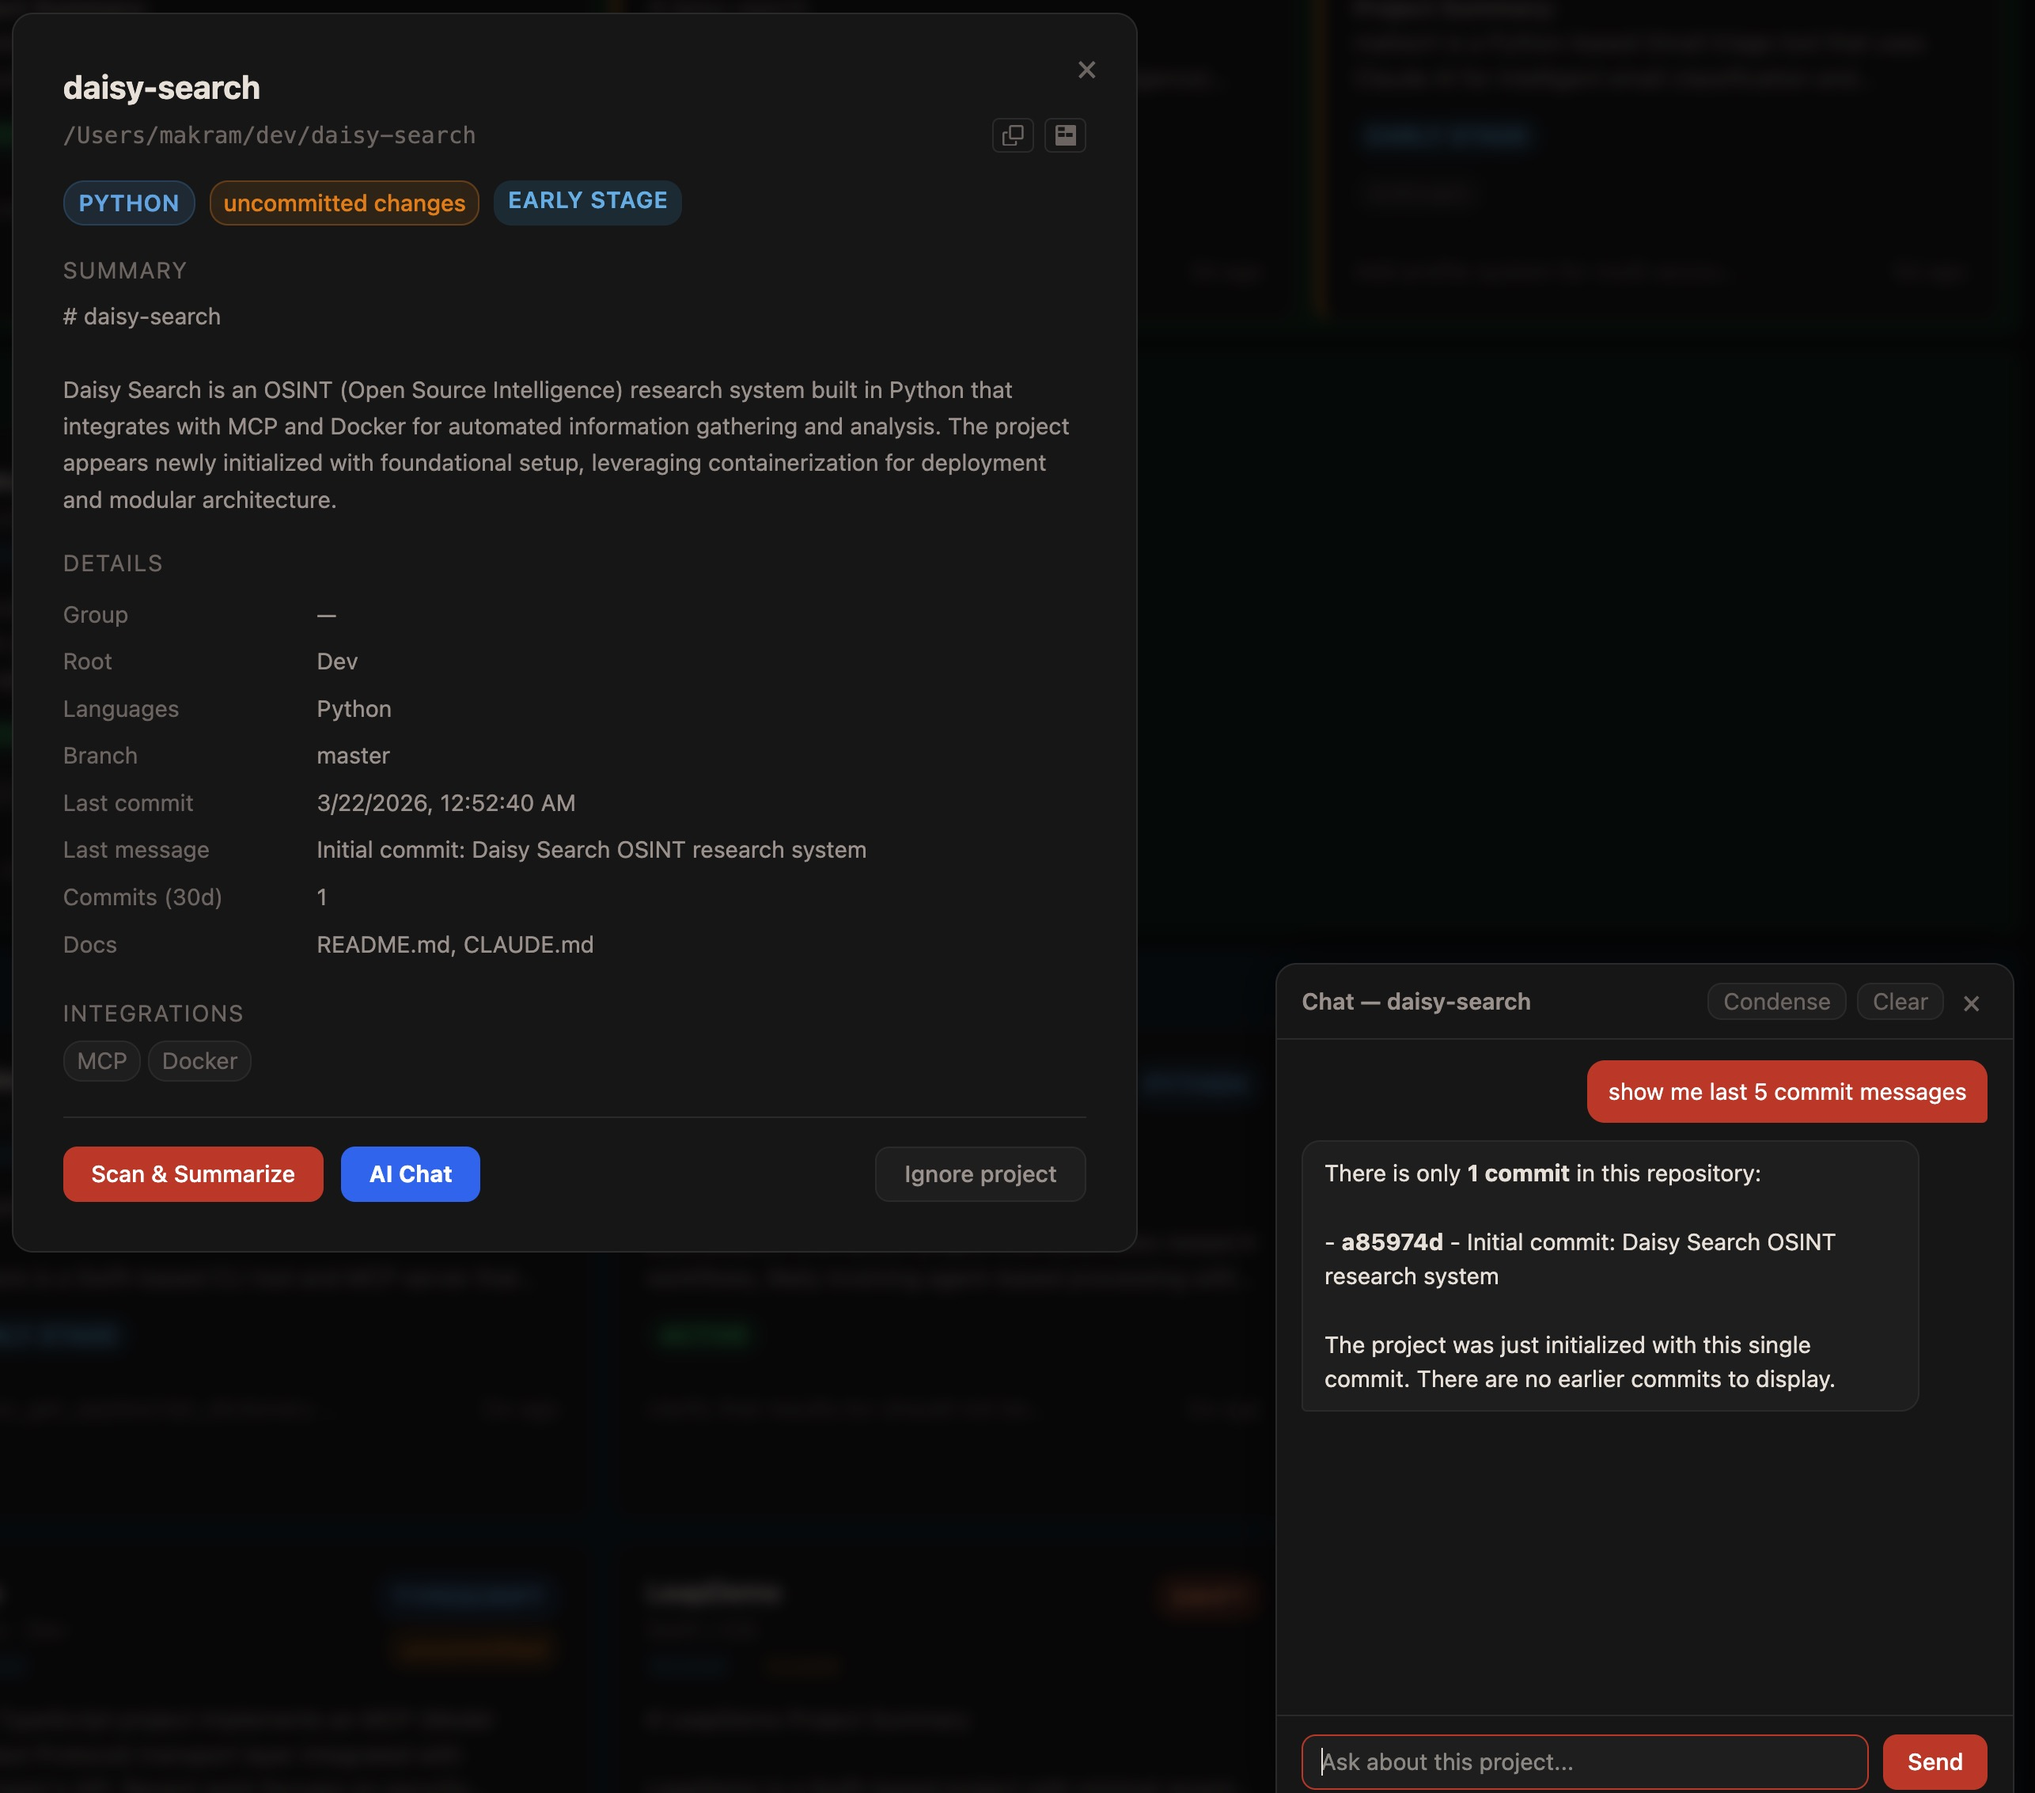
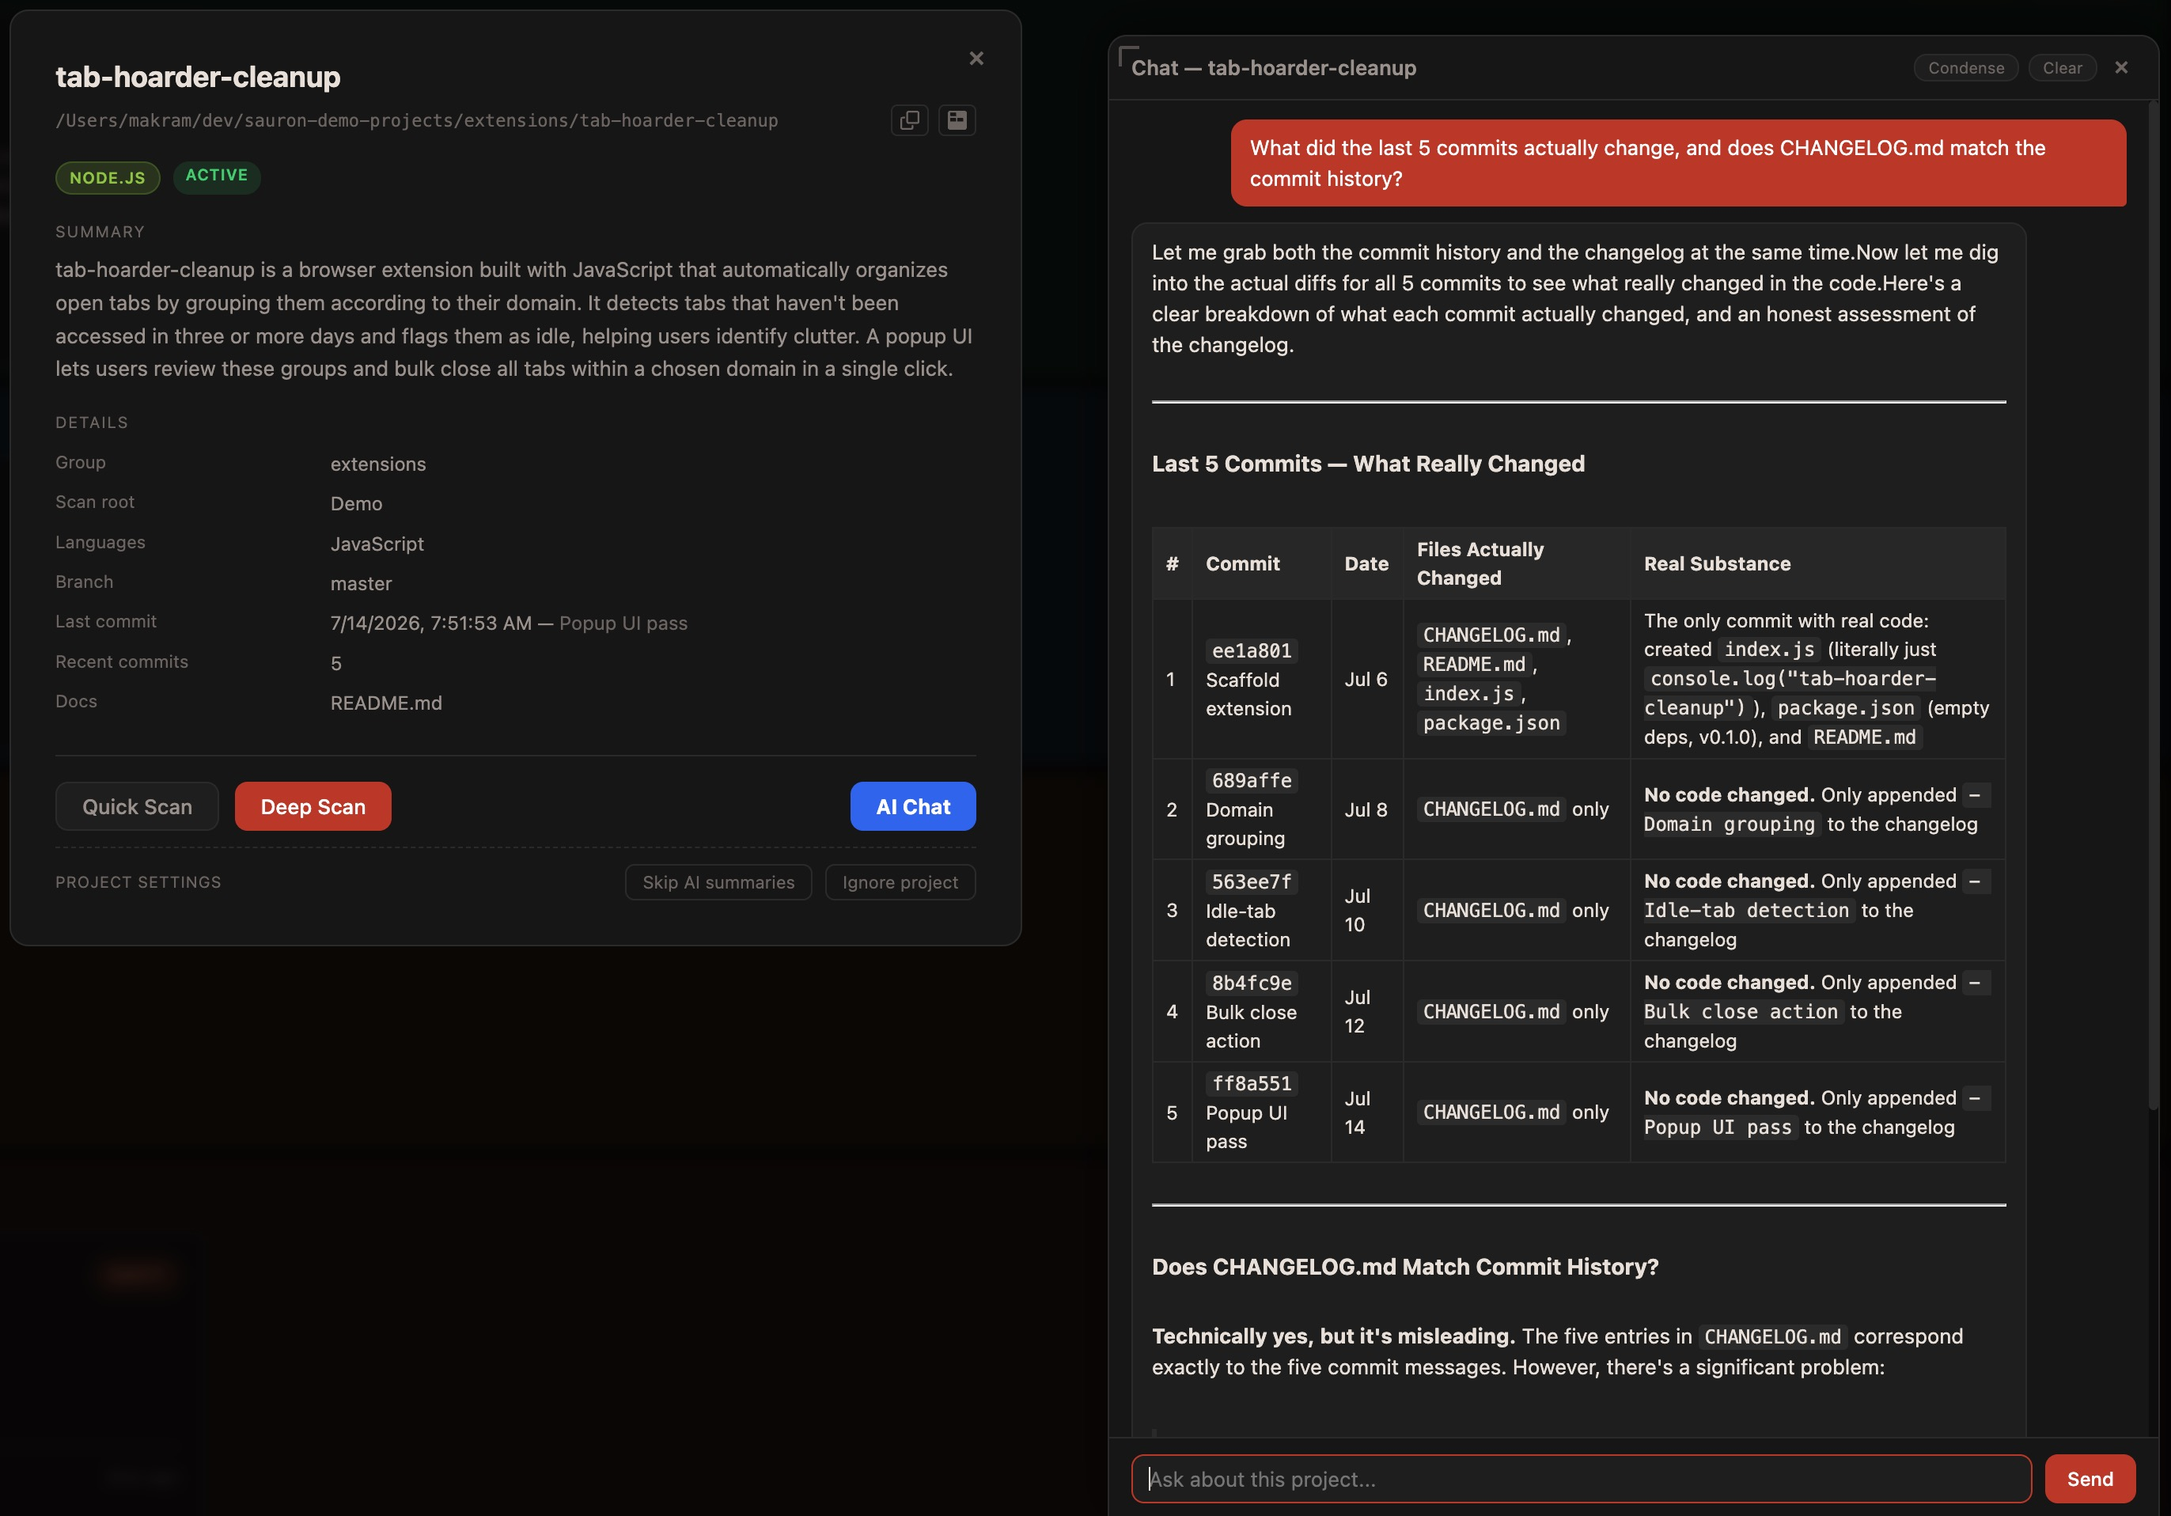
Update README screenshots and add search/global-chat visuals
Replace outdated dashboard/detail/chat screenshots with current UI and
add search & global AI chat captures, updating README copy to match.

diff --git a/README.md b/README.md
@@ -8,13 +8,21 @@ Sauron is a local dashboard that scans your development directories, tracks ever
 
 Projects are organized into temporal buckets (last 7 days, 14 days, 30 days, etc.) with color-coded sections. Each card shows the project type, uncommitted status, detected integrations, AI summary, and last commit info.
 
+![Search & Filter](assets/screenshots/search.jpeg)
+
+Search and filter by name, type, group, or uncommitted status to narrow the fleet down to exactly what you're looking for.
+
 ![Project Detail](assets/screenshots/project-detail.jpeg)
 
 Click any project to see full details including git metadata, detected integrations, documentation status, and an AI-generated summary. From here you can trigger a rescan or open an AI chat session scoped to that project.
 
-![AI Chat](assets/screenshots/ai-chat.jpeg)
+![Global AI Chat](assets/screenshots/global-ai-chat.jpeg)
 
-The per-project AI chat can browse files, search code, run read-only git commands, and answer questions about the project. It uses Claude's tool-use to explore the codebase on demand.
+The global **Ask AI** chat answers questions across your whole fleet at once — e.g. which projects use a given integration, or haven't been touched in a while — from project metadata only.
+
+![Project AI Chat](assets/screenshots/ai-chat.jpeg)
+
+The per-project AI chat can browse files, search code, run read-only git commands, and answer questions about that specific project. It uses Claude's tool-use to explore the codebase on demand.
 
 ---
 
@@ -41,7 +49,7 @@ Run it:
 npm start
 ```
 
-Open `http://127.0.0.1:7777` (or whatever `HOST:PORT` you set). Click **Quick Scan** to discover projects and gather metadata, then **Deep Scan** to regenerate all AI summaries.
+Open `http://127.0.0.1:7777` (or whatever `HOST:PORT` you set). Click **Quick Scan** to discover projects and gather metadata — free, no AI calls. To generate AI summaries, expand a project's time-bucket group or open an individual project and click **Deep Scan** — you'll see a real cost estimate before anything runs.
 
 ---
 
@@ -53,10 +61,12 @@ Sauron recursively walks the directories listed in `SCAN_ROOTS`. A directory is 
 
 Two scan modes:
 
-- **Quick Scan** -- Full directory crawl, collects git metadata (last commit, branch, uncommitted changes, 30-day commit count), detects project type, languages, integrations. No AI calls. Fast and free.
-- **Deep Scan** -- Everything Quick Scan does, plus sends project context (README, CLAUDE.md, recent git log) to Claude for a 2-3 sentence summary and status classification (Active, Stale, Abandoned, Early Stage). Summaries are cached and only regenerated when new commits are detected.
+- **Quick Scan** -- Full directory crawl, collects git metadata (last commit, branch, uncommitted changes, 30-day commit count), detects project type, languages, integrations, and checks for outdated dependencies. No AI calls. Free, and always available for the whole fleet or a scoped selection.
+- **Deep Scan** -- Everything Quick Scan does, plus sends project context (README, CLAUDE.md, recent git log) to Claude for a 2-3 sentence summary. Summaries are cached by commit hash and only regenerated when a project actually changes.
 
-Scans can also be triggered per temporal bucket or per individual project from the UI.
+Deep Scan always requires an explicit selection — there's no single button that summarizes everything. Trigger it per temporal bucket (review a checklist of that group's projects, deselect any you don't want, see a real cost estimate, then confirm) or per individual project (a lighter one-click confirm that always regenerates that project's summary). A project can also be marked to skip AI summaries entirely via **Skip AI summaries** in its detail view — it still gets Quick Scan metadata, just never an AI call.
+
+Activity status (Active / Stale / Abandoned) is computed deterministically from git history, not by the AI. If a project's commit changes after its summary was generated, its card shows an **Outdated** badge until it's re-summarized.
 
 ### Project Detection
 
@@ -78,7 +88,7 @@ Sauron checks `package.json` dependencies and `pyproject.toml` contents for know
 
 ### AI Chat
 
-Each project gets a scoped chat session powered by Claude. The AI has access to read-only tools:
+There are two chat modes. The **global chat** ("Ask AI" in the header) answers project-discovery questions across your whole fleet at once — e.g. "which projects use Stripe" — from project metadata only, with no file access. Each **individual project** also gets its own scoped chat session with real tool access:
 
 - **list_directory** -- Browse the file tree
 - **read_file** -- Read file contents (with offset/limit for large files)
@@ -102,20 +112,17 @@ All configuration lives in `.env`. Copy `.env.example` to get started.
 | `HOST` | Server bind address | `127.0.0.1` |
 | `PORT` | Server port | `7777` |
 | `ACTIVE_CUTOFF_DAYS` | How far back to look for "active" projects | `30` |
-| `QUICK_SCAN_TOP_N` | Max projects in a targeted quick scan | `20` |
-| `MAX_SUMMARIES_PER_SCAN` | Max AI summaries per deep scan (recent projects first) | `50` |
+| `MAX_SUMMARIES_PER_SCAN` | Max projects in a single Deep Scan selection | `50` |
 | `IGNORE_PATHS` | Comma-separated directory paths to skip | -- |
-| `SCHEDULE_ENABLED` | Enable automatic scanning | `false` |
-| `SCHEDULE_QUICK_CRON` | Cron for automatic quick scans (metadata only) | `*/30 * * * *` (every 30 min) |
-| `SCHEDULE_DEEP_CRON` | Cron for automatic deep scans (metadata + AI summaries) | `0 18 * * *` (6pm daily) |
+| `PRICE_INPUT_MTOK` / `PRICE_OUTPUT_MTOK` | Per-million-token pricing for `CLAUDE_MODEL`, used to compute the in-app cost meter | `0.80` / `4.00` (Haiku) |
 
 ### Cost
 
-All AI calls use the model specified in `CLAUDE_MODEL` (defaults to Haiku). Costs are tracked per scan and displayed in the UI header.
+All AI calls use the model specified in `CLAUDE_MODEL` (defaults to Haiku). Costs are tracked per scan and displayed in the UI header, and every Deep Scan confirmation shows a real estimate — computed from your actual scan history — before it runs.
 
 Typical costs:
-- Quick Scan: **$0.00** (no AI calls)
-- Deep Scan (50 summaries): **~$0.05-0.10**
+- Quick Scan: **$0.00** (no AI calls, any scope)
+- Deep Scan: **~$0.0005-0.001 per summary** — flat per project, since the prompt is bounded (README/CLAUDE.md excerpts + recent commits, not full repo contents) rather than proportional to repo size. A single Deep Scan selection is capped at `MAX_SUMMARIES_PER_SCAN` (default 50).
 - Chat message: **~$0.001-0.005** per turn
 
 ### Tech Stack
@@ -123,7 +130,6 @@ Typical costs:
 - **Backend**: Node.js, Express, better-sqlite3
 - **Frontend**: Vanilla HTML/CSS/JS (no framework)
 - **AI**: Anthropic Claude API (streaming, tool use)
-- **Scheduling**: node-cron
 
 ### Data
 
